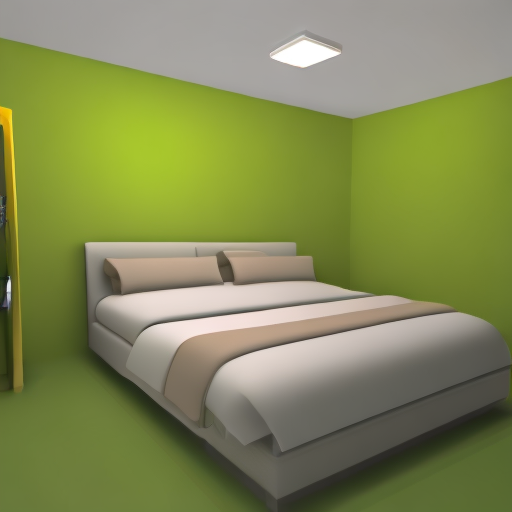
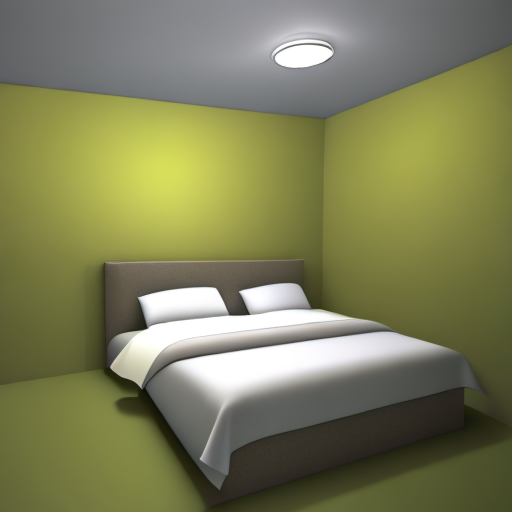
baseline test img2img

diff --git a/dreambooth_img2img.py b/dreambooth_img2img.py
@@ -43,7 +43,7 @@ for filename in os.listdir(input_dir):
         image = image.resize((512,512))
         for steps in [100]:
             with torch.autocast("cuda"):
-                generated_image = pipe(prompt=prompt, image=image, strength=0.99, guidance_scale=7.5).images[0]
+                generated_image = pipe(prompt=prompt, image=image, strength=1, num_inference_steps=100, guidance_scale=15).images[0]
                 #generated_image = pipe(prompt=prompt, init_image=image, strength=0.75, num_inference_steps=steps, guidance_scale=7.5, generator=generator).images[0]
                 output_path = os.path.join(output_dir, f"{filename.split('.')[0]}_steps_{steps}.png")
                 generated_image.save(output_path)
